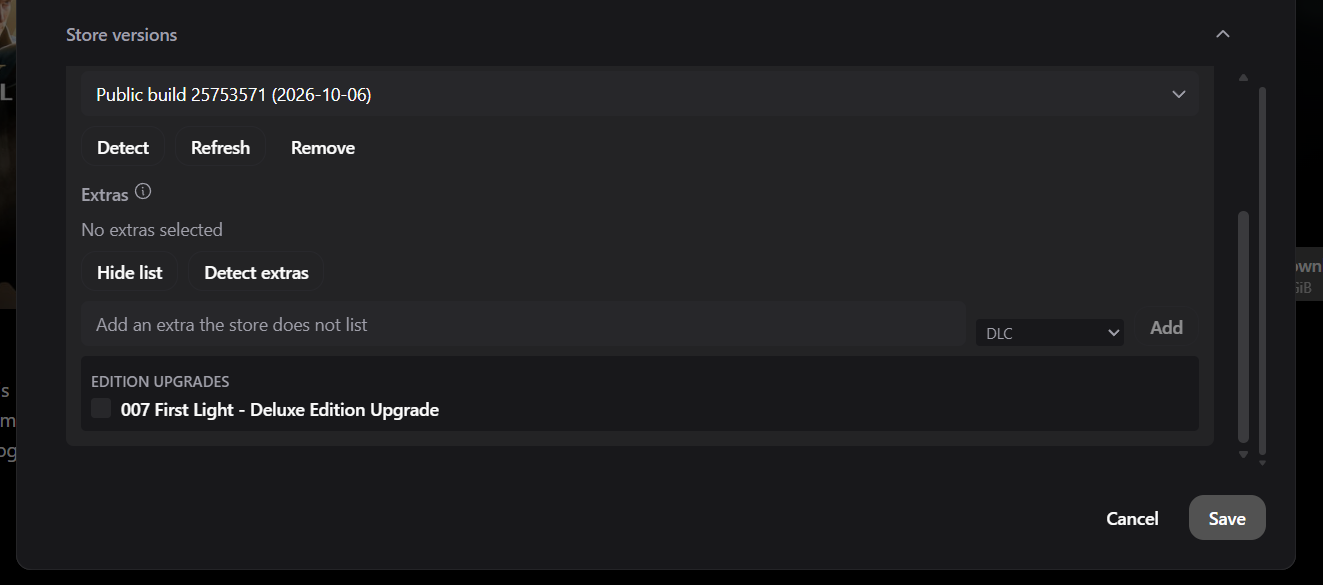
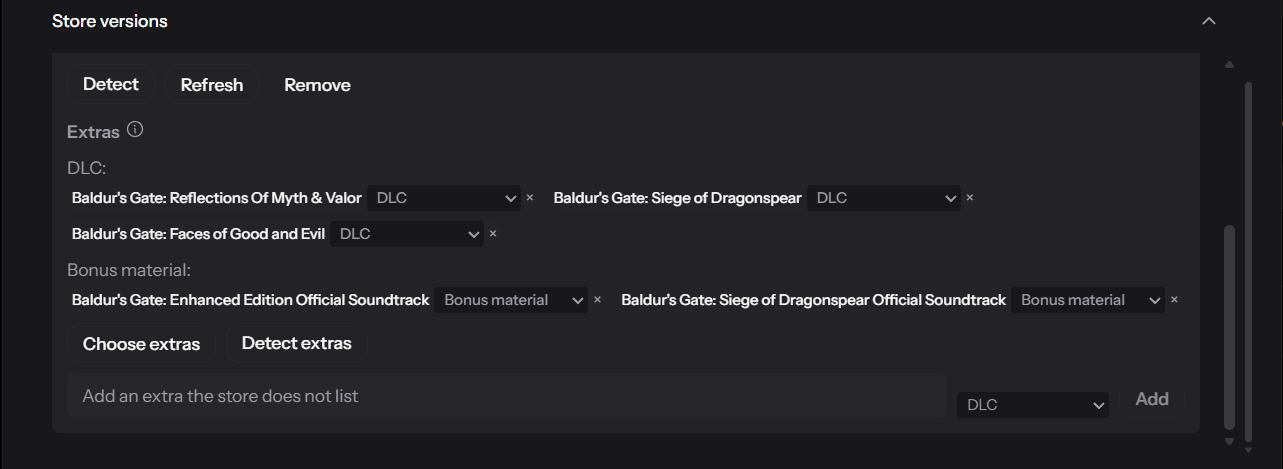
Document game store plugins and update editions screenshots

diff --git a/README.md b/README.md
@@ -27,31 +27,72 @@ before.
 
 ### Editions, versions, and included DLC
 
-This branch builds on store version tracking for Steam, GOG, and Epic Games. Link store products to a game in its
-metadata editor, label editions such as Deluxe, and compare the latest store version with the version in your library.
-For each store link, manage the DLC included with your copy. Gameyfin can suggest matches from names in the game
-library, and you can adjust the selection or add DLC that the store does not list. Game details show the edition,
-version, and included DLC.
+Gameyfin can track the store version of your games, the edition you own, and the DLC included with your copy. Link
+store products to a game in its metadata editor, label editions such as Deluxe, and compare the latest store version
+with the version in your library. Gameyfin can suggest DLC from names in your game library, and you can adjust the
+selection or add extras the store does not list. Game details show the edition, version, and included extras.
+
+#### Game Store Provider plugins
+
+Stores are provided by plugins in the new **Game Store Provider** category, listed between the metadata and download
+provider categories. There is one plugin per data source:
+
+| Plugin | Store | Provides |
+|---|---|---|
+| `plugins/steamstore` (Steam Store) | Steam | Search, DLC |
+| `plugins/steamcmd` (Steam Builds, unofficial) | Steam | Versions (branch builds) |
+| `plugins/gog` (GOG Store) | GOG | Search, versions, DLC |
+| `plugins/gogdb` (GOG Builds, unofficial) | GOG | Versions, edition names |
+| `plugins/epic` (Epic Games Store, egdata.app) | Epic | Search, versions, DLC |
+
+![Game Store Provider plugins](assets/screenshots/editions-dlc/plugins-game-store-provider.png)
+
+- **Several sources per store:** search and versions use the highest-priority source that has a result and fall back
+  to the others. DLC and edition names from all sources are merged without duplicates.
+- **Order:** the store dropdown follows the plugin order set in the plugin admin menu, so you can put your most used
+  store first.
+- **Search is optional:** plugins that cannot search (SteamCMD, GOGDB) only add data. If no enabled plugin of a store
+  can search, you can still add products by ID or URL.
+- **No store plugin enabled:** the **Store versions** section is hidden and the refresh task does nothing.
+- **Plugin disabled:** its links stay visible read-only with cached data and are not refreshed.
+
+#### Writing a store plugin
+
+Any plugin, including community plugins that already provide metadata, can add a store by also implementing the
+`GameStoreProvider` extension point of the plugin API. It becomes another source for its store and is combined with
+the others as described above, so users do not have to install a second plugin for the same data. Only implement what
+your source provides: `search`, `fetchVersions`, `fetchDlc` and `suggestEditions` all have empty defaults, and a
+plugin that cannot search should set `supportsSearch = false`.
+
+The Steam builds, GOGDB and Epic plugins use unofficial services. `.github/workflows/store-plugins-live-check.yml`
+runs a small live test for them every week. To run it locally, set `GAMEYFIN_LIVE_TESTS=true` and run the tests of
+`:plugins:steamcmd`, `:plugins:gogdb` and `:plugins:epic`.
 
 #### Screenshots
 
-Open **Store versions** in the game metadata editor and choose **Add store**, then pick Steam, GOG, or Epic Games and
+Open **Store versions** in the game metadata editor and choose **Add store**, then pick one of the enabled stores and
 search for the game.
 
 ![Store versions section with no store linked](assets/screenshots/editions-dlc/store-versions-empty.png)
 
 ![Choosing a store](assets/screenshots/editions-dlc/store-picker.png)
 
-Each linked store has an **Extras** section for DLC, edition upgrades, and bonus material that come with your copy. Use
+A linked store has an edition and the product version to track.
+
+![Store link with edition and version](assets/screenshots/editions-dlc/store-link-editor.png)
+
+Each link also has an **Extras** section for DLC, edition upgrades, and bonus material that come with your copy. Use
 **Detect extras** to suggest them from your files, or add extras the store does not list.
 
 ![Managing extras for a store link](assets/screenshots/editions-dlc/extras-editor.png)
 
 Game details show the store version with an update status, plus the selected extras.
 
-![GOG version in game details](assets/screenshots/editions-dlc/details-gog-version.png)
+![Steam version and extras in game details](assets/screenshots/editions-dlc/details-steam-extras.png)
 
-![Steam version and edition upgrades in game details](assets/screenshots/editions-dlc/details-steam-extras.png)
+![Steam update available in game details](assets/screenshots/editions-dlc/details-steam-update.png)
+
+![GOG version in game details](assets/screenshots/editions-dlc/details-gog-version.png)
 
 ### Documentation
 
